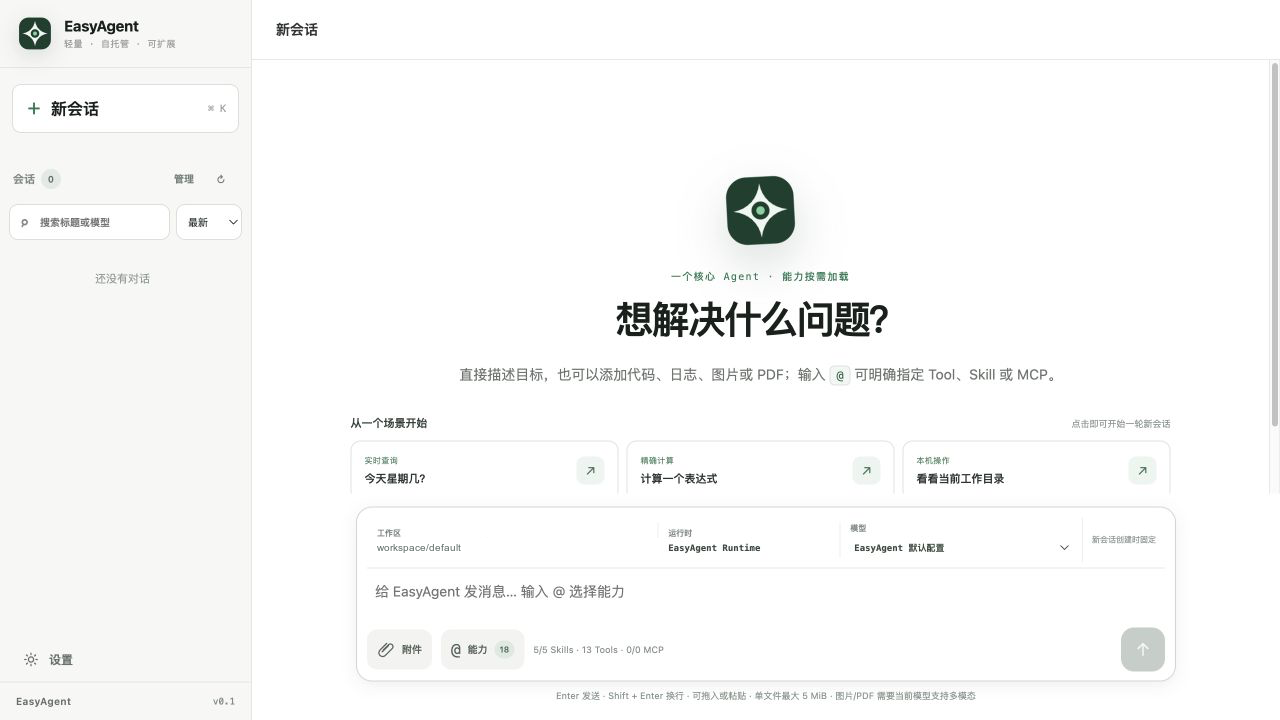
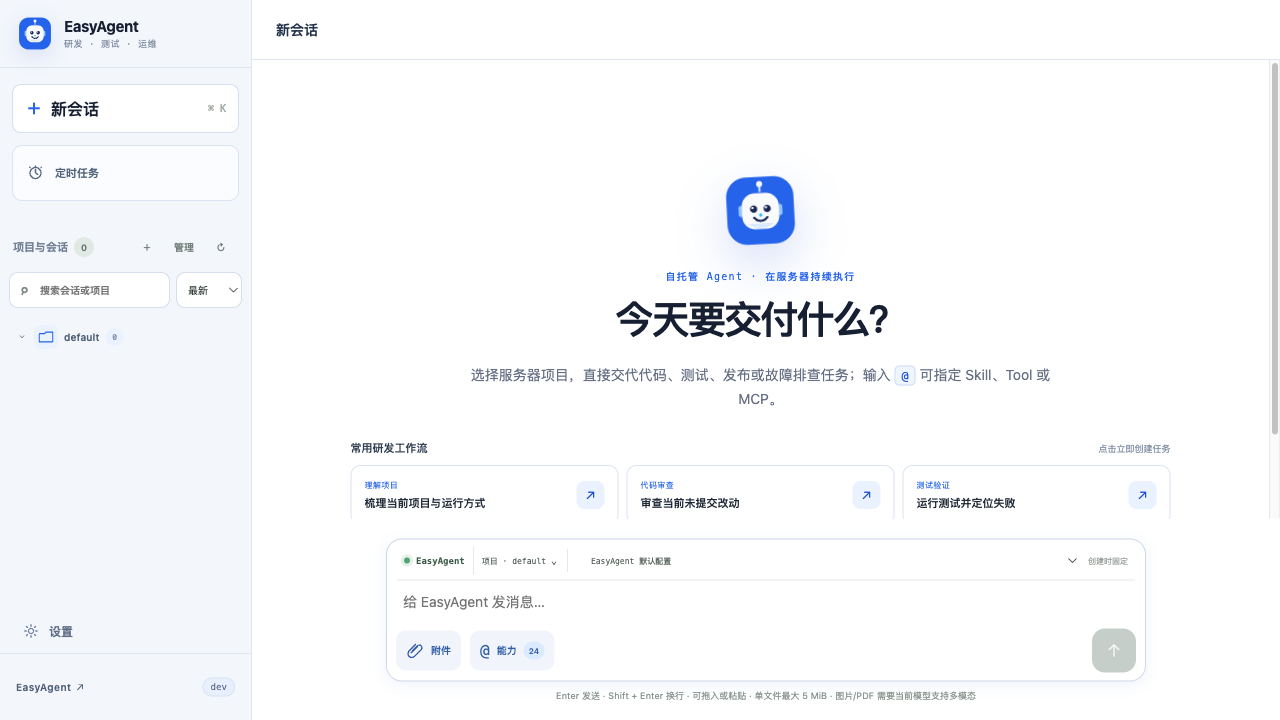
feat: polish settings theme and refresh product screenshots

diff --git a/web/src/product-shell.css b/web/src/product-shell.css
@@ -625,6 +625,13 @@ body { background: #f7f9fd; }
 .login-logo { filter: drop-shadow(0 8px 14px #1d4ed824); }
 .session-project-head .project-icon { color: #2563eb; background: #eaf2ff; }
 .session-project-toggle:hover .project-icon { color: #1d4ed8; background: #dbeafe; }
+.session-project-toggle:hover { background: #eef4ff; }
+.session-project-toggle:focus-visible, .session-project-edit:focus-visible { outline-color: #60a5fa; }
+.session-project-head strong { color: #52627a; }
+.session-project-head small { color: #7c8da5; background: #eaf2ff; }
+.session-project-edit { color: #8090a4; }
+.session-project-edit:hover { color: #315da8; background: #e8f0ff; }
+.session-project-sessions { border-left-color: #d9e5f3; }
 .session-project-sessions .session-type-icon.automation { border-color: #c9dcfa; color: #2563eb; background: #edf4ff; }
 .session-project-sessions .session-type-icon.automation.running { border-color: #b9d5f0; color: #3576a8; background: #edf5fb; }
 .automation-empty-mark { color: #2563eb; background: #eaf2ff; }
@@ -669,3 +676,245 @@ body { background: #f7f9fd; }
 .composer-workspace:focus-visible { outline-color: #60a5fa; }
 .workspace-picker input:focus { border-color: #60a5fa; box-shadow: 0 0 0 3px #dbeafe; }
 .automation-notice { border-color: #c9dcfa; color: #315da8; background: #eff6ff; }
+
+/* Keep channel and workspace controls on the business-blue brand system. */
+.weixin-global.enabled { border-color: #c9dcfa; background: #f5f8ff; }
+.weixin-global strong { color: #315da8; }
+.weixin-refresh { color: #2563eb; }
+.weixin-refresh > span { color: #2563eb; }
+.weixin-notice { border-color: #c9dcfa; color: #315da8; background: #eff6ff; }
+.weixin-section-title > span { color: #315da8; background: #eaf2ff; }
+.weixin-bind-form input:focus, .weixin-verify input:focus, .weixin-account-name input:focus { border-color: #60a5fa; box-shadow: 0 0 0 3px #dbeafe; }
+.weixin-login { border-color: #c9dcfa; background: #f5f8ff; }
+.weixin-qr { color: #2563eb; }
+.weixin-login-copy h4 { color: #1f3565; }
+.weixin-avatar { color: #2563eb; background: #eaf2ff; }
+.weixin-account-name button { color: #315da8; }
+.weixin-account-name button:hover:not(:disabled) { background: #e8f0ff; }
+.weixin-commands code { color: #2563eb; background: #eaf2ff; }
+.workspace-mode-list > button:hover { border-color: #9bb8e8; }
+.workspace-mode-list > button.selected { border-color: #7aa7e8; background: #eff6ff; box-shadow: inset 3px 0 #2563eb; }
+.workspace-mode-list em { color: #315da8; background: #eaf2ff; }
+.automation-schedule-rows select:focus, .automation-schedule-rows input[type="time"]:focus { box-shadow: 0 0 0 3px #dbeafe; }
+
+/* Give the persistent sidebar actions a clear blue interaction hierarchy. */
+.sidebar-settings { color: #5f6f86; }
+.sidebar-settings svg { color: #7183a0; }
+.sidebar-settings:hover { color: #1d4ed8; background: #eef4ff; }
+.sidebar-settings:hover svg { color: #2563eb; }
+.sidebar-settings:focus-visible { outline-color: #60a5fa; box-shadow: none; }
+.sidebar-foot { color: #64748b; background: #f3f6fb; }
+.sidebar-foot a { min-height: 40px; color: #52627a; }
+.sidebar-foot a:hover { color: #1d4ed8; }
+.sidebar-foot small { padding: 3px 7px; border: 1px solid #d5e2f5; border-radius: 999px; color: #607089; background: #e8f0ff; line-height: 1.2; }
+
+/* Settings center: one business-blue interaction system across every section. */
+.settings-hub {
+  --settings-primary: #2563eb;
+  --settings-primary-strong: #1d4ed8;
+  --settings-primary-soft: #eff6ff;
+  --settings-primary-muted: #e8f0ff;
+  --settings-line: #dfe7f2;
+  --settings-line-strong: #c6d7ee;
+  --settings-surface: #f8faff;
+  --settings-surface-raised: #fbfdff;
+  --settings-text: #1e293b;
+  --settings-text-secondary: #52627a;
+  --settings-text-muted: #7b8798;
+  color: var(--settings-text);
+}
+.settings-hub-header { border-bottom-color: var(--settings-line); }
+.settings-hub-header h1 { color: #172033; }
+.settings-hub-header p:last-child { color: #667085; }
+.settings-hub .settings-kicker, .settings-hub .eyebrow { color: var(--settings-primary); }
+.settings-hub-context { border-left-color: var(--settings-line); color: var(--settings-text-secondary); }
+.settings-hub-context small { color: #8794a7; }
+.settings-hub-context strong { color: #30415e; }
+.settings-hub .account-logout { min-height: 40px; border-color: #d5dfed; color: #607089; }
+.settings-hub .account-logout:hover { color: #a04439; border-color: #e6c4bf; background: #fff7f5; }
+
+.settings-side-label { color: #8a97aa; }
+.settings-side-nav button { color: #65748a; transition: color .16s ease, background .16s ease; }
+.settings-side-nav button:hover { color: var(--settings-primary-strong); background: #f1f6ff; }
+.settings-side-nav button.active, .settings-side-nav button.active:hover { color: #1e40af; background: var(--settings-primary-muted); }
+.settings-side-nav button small { color: #8b98aa; }
+.settings-side-nav button.active small { color: #657da5; }
+.settings-nav-index { color: #9aa7b8; }
+.settings-side-nav button.active .settings-nav-index { color: var(--settings-primary); }
+.settings-side-nav button:focus-visible { box-shadow: 0 0 0 2px #93b4ed; }
+.settings-side-note { border-top-color: var(--settings-line); color: #8a97a8; }
+
+.settings-hub-content .runtime-rail-head, .settings-hub-content .runtime-main-head,
+.settings-hub .section-heading, .settings-hub .model-catalog-head,
+.settings-hub .skill-form-actions { border-color: var(--settings-line); }
+.settings-hub-content .runtime-rail-head > div > strong,
+.settings-hub .runtime-main-head h2, .settings-hub .section-heading h2,
+.settings-hub .model-catalog-head h2, .settings-hub .settings-section-heading h2,
+.settings-hub .editor-title h2 { color: var(--settings-text); }
+.settings-hub-content .runtime-rail-head > small,
+.settings-hub-content .runtime-rail-foot, .settings-hub .runtime-main-head p:last-child,
+.settings-hub .section-heading p, .settings-hub .model-catalog-head p:last-child,
+.settings-hub .settings-section-heading p:last-child, .settings-hub .field-help,
+.settings-hub .directory-foot { color: var(--settings-text-muted); }
+.settings-hub-content .runtime-rail-foot { border-top-color: var(--settings-line); }
+.settings-hub .tag, .settings-hub .settings-count, .settings-hub .runtime-chip {
+  color: var(--settings-primary-strong);
+  background: var(--settings-primary-muted);
+}
+.settings-hub .section-block, .settings-hub .model-catalog,
+.settings-hub .split-settings, .settings-hub .account-panel,
+.settings-hub .usage-kpis, .settings-hub .usage-panel,
+.settings-hub .weixin-bind, .settings-hub .weixin-list { border-color: var(--settings-line); }
+.settings-hub .ghost-button { border-color: #d5dfed; color: #334155; background: #fff; }
+.settings-hub .ghost-button:hover:not(:disabled) { border-color: #9bb8e8; color: var(--settings-primary-strong); background: #f5f8ff; }
+.settings-hub .ghost-button:focus-visible, .settings-hub .primary-button:focus-visible,
+.settings-hub .profile-activate:focus-visible, .settings-hub .profile-edit:focus-visible {
+  outline: 2px solid #60a5fa;
+  outline-offset: 2px;
+}
+.settings-hub label { color: var(--settings-text-secondary); }
+.settings-hub input, .settings-hub textarea, .settings-hub select { border-color: #d4dfed; color: #1f2937; background: #fff; }
+.settings-hub input:focus, .settings-hub textarea:focus, .settings-hub select:focus { border-color: #60a5fa; box-shadow: 0 0 0 3px #dbeafe; }
+.settings-hub .switch input:checked + span { background: var(--settings-primary); }
+.settings-hub .switch input:focus-visible + span { box-shadow: 0 0 0 3px #dbeafe, 0 0 0 5px #60a5fa; }
+
+/* Runtime and shared task policy. Health dots intentionally remain semantic green. */
+.settings-hub-content .runtime-nav-item { border-color: var(--settings-line); color: var(--settings-text-secondary); background: #fff; }
+.settings-hub-content .runtime-nav-item:hover { border-color: #aac4e8; color: var(--settings-primary-strong); background: #f5f8ff; }
+.settings-hub-content .runtime-nav-item.selected,
+.settings-hub-content .runtime-nav-item.selected:hover { color: #1e40af; border-color: #8eb3ea; background: var(--settings-primary-soft); }
+.settings-hub-content .runtime-nav-item.selected .runtime-nav-dot { box-shadow: 0 0 0 4px #dbeafe; }
+.settings-hub-content .runtime-nav-item.selected em { color: var(--settings-primary-strong); }
+.settings-hub .runtime-status { border: 1px solid #d2e1f5; background: var(--settings-primary-soft); }
+.settings-hub .runtime-summary { border-color: var(--settings-line); background: var(--settings-surface); }
+.settings-hub .runtime-summary strong { color: #1f3d6b; }
+.settings-hub .runtime-summary span { color: var(--settings-text-muted); }
+.settings-hub .runtime-boundary-note, .settings-hub .capability-note { border-left-color: var(--settings-primary); color: #315da8; background: var(--settings-primary-soft); }
+.settings-hub .runtime-boundary-note strong, .settings-hub .capability-note strong { color: #1e40af; }
+.settings-hub .runtime-boundary-note span { color: #637692; }
+.settings-hub .task-settings-panel .section-heading { border-bottom-color: var(--settings-line); }
+.settings-hub .task-settings-grid { border-top-color: var(--settings-line); border-left-color: var(--settings-line); }
+.settings-hub .task-settings-grid > section { border-right-color: var(--settings-line); border-bottom-color: var(--settings-line); background: var(--settings-surface-raised); }
+.settings-hub .task-setting-heading > span { color: var(--settings-primary); }
+.settings-hub .task-setting-heading strong { color: #30415e; }
+.settings-hub .task-setting-heading small, .settings-hub .task-settings-grid label > small,
+.settings-hub .task-toggle small { color: var(--settings-text-muted); }
+.settings-hub .task-settings-grid label > input[type="number"] { border-color: #d4dfed; color: #1f2937; }
+.settings-hub .task-toggle input { accent-color: var(--settings-primary); }
+.settings-hub .recovery-policy { border-color: var(--settings-line); background: #f5f8ff; }
+.settings-hub .recovery-policy > div + div { border-left-color: var(--settings-line); }
+.settings-hub .recovery-policy strong { color: #30415e; }
+.settings-hub .recovery-policy small { color: #6d7c91; }
+
+/* Model directory and its editor. */
+.settings-hub .model-profile-directory { border-top-color: var(--settings-line); }
+.settings-hub .model-profile-row { border-color: var(--settings-line); background: #fff; }
+.settings-hub .model-profile-row:hover { background: #f6f9ff; }
+.settings-hub .model-profile-row.selected,
+.settings-hub .model-profile-row.selected:hover { border-color: #b7cef0; background: var(--settings-primary-soft); }
+.settings-hub .model-profile-select { color: #30415e; }
+.settings-hub .model-profile-select:hover strong { color: var(--settings-primary-strong); }
+.settings-hub .model-profile-select small { color: var(--settings-text-muted); }
+.settings-hub .profile-runtime-tag { border-left-color: #60a5fa; color: #315da8; background: transparent; }
+.settings-hub .profile-runtime-tag.codex { border-left-color: var(--settings-primary); color: #1e40af; }
+.settings-hub .profile-runtime-tag.draft { border-left-color: #c58b3e; color: #8a672c; }
+.settings-hub .profile-activate, .settings-hub .profile-edit { border-color: #c9d9ef; color: #315da8; background: #fff; }
+.settings-hub .profile-activate:hover:not(:disabled), .settings-hub .profile-edit:hover { border-color: #8eb3ea; color: var(--settings-primary-strong); background: var(--settings-primary-soft); }
+.settings-hub-content .profile-activate.active { color: #315da8; background: var(--settings-primary-muted); }
+.settings-hub .model-drawer-backdrop { background: #0f1f3866; }
+.settings-hub .model-drawer { box-shadow: -24px 0 60px #0f1f3829; }
+.settings-hub .model-drawer-head, .settings-hub .model-drawer-danger { border-color: var(--settings-line); }
+.settings-hub .drawer-close { border-color: #d5dfed; color: #607089; background: #f7f9fc; }
+.settings-hub .drawer-close:hover { color: var(--settings-primary-strong); border-color: #9bb8e8; background: var(--settings-primary-soft); }
+.settings-hub .model-drawer-meta, .settings-hub .codex-config-summary { border-color: #ccdcf2; color: #315da8; background: var(--settings-primary-soft); }
+.settings-hub .model-drawer-meta strong { color: #1f3d6b; }
+.settings-hub .ollama-model-catalog { border-color: #ccdcf2; background: var(--settings-surface); }
+.settings-hub .ollama-model-head strong, .settings-hub .ollama-model-row code { color: #304b73; }
+.settings-hub .ollama-model-head small, .settings-hub .ollama-model-row small,
+.settings-hub .ollama-model-row > span { color: var(--settings-text-muted); }
+.settings-hub .ollama-model-head > span { color: var(--settings-primary-strong); background: var(--settings-primary-muted); }
+.settings-hub .ollama-model-row { border-top-color: var(--settings-line); }
+
+/* Skills and MCP use blue for interaction; success/error feedback stays semantic. */
+.settings-hub .skills-overview > div, .settings-hub .mcp-overview > div { border-color: var(--settings-line); background: var(--settings-surface); }
+.settings-hub .skills-overview strong, .settings-hub .mcp-overview strong { color: #1f3d6b; }
+.settings-hub .skills-overview span, .settings-hub .mcp-overview span { color: var(--settings-text-muted); }
+.settings-hub .settings-list, .settings-hub .settings-list-tools { border-color: var(--settings-line); background: #f5f8fc; }
+.settings-hub .settings-list > button { border-bottom-color: var(--settings-line); }
+.settings-hub .settings-list > button:hover { background: #f0f5ff; }
+.settings-hub .settings-list > button.active { background: var(--settings-primary-soft); box-shadow: inset 3px 0 var(--settings-primary); }
+.settings-hub .settings-list .add-row { color: var(--settings-primary-strong); }
+.settings-hub .settings-list small, .settings-hub .settings-list em { color: var(--settings-text-muted); }
+.settings-hub .settings-search > span { color: #6d7f98; }
+.settings-hub .editor-title span, .settings-hub .skill-toggle-control small { color: var(--settings-text-muted); }
+.settings-hub .skill-toggle-control strong { color: #30415e; }
+.settings-hub .code-editor { color: #dbeafe; background: #0f172a; }
+.settings-hub .tool-table > div, .settings-hub .mcp-grid,
+.settings-hub .mcp-row { border-color: var(--settings-line); }
+.settings-hub .tool-table code, .settings-hub .mcp-row button { color: var(--settings-primary-strong); }
+.settings-hub .tool-table span, .settings-hub .mcp-row-info small,
+.settings-hub .mcp-row > span { color: var(--settings-text-muted); }
+.settings-hub .mcp-row-actions button { border-color: #cbdaf0; background: #fff; }
+.settings-hub .mcp-row button:hover { color: var(--settings-primary-strong); background: var(--settings-primary-soft); }
+.settings-hub .preset-card { border-color: #ccdaee; color: #304b73; background: var(--settings-surface); }
+.settings-hub .preset-card small { color: #66758a; }
+.settings-hub .preset-card em { color: #8793a5; }
+.settings-hub .preset-actions button { border-color: #bfd1eb; color: #315da8; }
+.settings-hub .preset-actions button:hover { border-color: #8eb3ea; background: var(--settings-primary-soft); }
+.settings-hub .preset-actions button:last-child { border-color: var(--settings-primary); color: #fff; background: var(--settings-primary); }
+.settings-hub .preset-actions button:last-child:hover { border-color: var(--settings-primary-strong); background: var(--settings-primary-strong); }
+
+/* Usage is product data, so its chart series follows the brand palette. */
+.settings-hub .usage-toolbar, .settings-hub .usage-period-list,
+.settings-hub .usage-model-list, .settings-hub .usage-period-row,
+.settings-hub .usage-model-row { border-color: var(--settings-line); }
+.settings-hub .usage-period-tabs button { color: #6f7d90; }
+.settings-hub .usage-period-tabs button:hover { color: var(--settings-primary-strong); background: #f3f7ff; }
+.settings-hub .usage-period-tabs button.active { color: #1e40af; border-bottom-color: var(--settings-primary); background: var(--settings-primary-soft); }
+.settings-hub .usage-kpis { background: var(--settings-surface); }
+.settings-hub .usage-kpis > div { border-color: var(--settings-line); }
+.settings-hub .usage-kpis span, .settings-hub .usage-kpis small,
+.settings-hub .usage-panel-head > span, .settings-hub .usage-model-meta,
+.settings-hub .usage-model-numbers span, .settings-hub .usage-footnote { color: var(--settings-text-muted); }
+.settings-hub .usage-kpis strong, .settings-hub .usage-period-value,
+.settings-hub .usage-model-numbers strong { color: #1f4f8f; }
+.settings-hub .usage-period-label strong, .settings-hub .usage-model-title strong { color: #30415e; }
+.settings-hub .usage-period-label small, .settings-hub .usage-model-title small { color: var(--settings-text-muted); }
+.settings-hub .usage-period-track { background: #e8eef7; }
+.settings-hub .usage-period-track span { background: #4f8fe8; }
+.settings-hub .usage-runtime-dot { background: #60a5fa; box-shadow: 0 0 0 3px #dbeafe; }
+.settings-hub .usage-runtime-dot.codex { background: #2563eb; box-shadow: 0 0 0 3px #dbeafe; }
+
+/* Weixin setup surfaces are brand-neutral blue; online and delivery states stay green. */
+.settings-hub .weixin-page { color: var(--settings-text); }
+.settings-hub .weixin-head { border-bottom-color: var(--settings-line); }
+.settings-hub .weixin-head h2, .settings-hub .weixin-section-title h3,
+.settings-hub .weixin-overview strong, .settings-hub .weixin-task-copy > strong { color: var(--settings-text); }
+.settings-hub .weixin-head p:last-child, .settings-hub .weixin-section-title p,
+.settings-hub .weixin-overview span, .settings-hub .weixin-overview small,
+.settings-hub .weixin-task-copy > span, .settings-hub .weixin-task-copy > small { color: var(--settings-text-muted); }
+.settings-hub .weixin-global, .settings-hub .weixin-overview,
+.settings-hub .weixin-account, .settings-hub .weixin-commands { border-color: var(--settings-line); }
+.settings-hub .weixin-global { background: var(--settings-surface-raised); }
+.settings-hub .weixin-global.enabled { border-color: #c9dcfa; background: #f5f8ff; }
+.settings-hub .weixin-overview > div, .settings-hub .weixin-refresh,
+.settings-hub .weixin-account-head, .settings-hub .weixin-account-actions,
+.settings-hub .weixin-commands > div { border-color: var(--settings-line); }
+.settings-hub .weixin-refresh:hover:not(:disabled) { background: var(--settings-primary-soft); }
+.settings-hub .weixin-bind { background: var(--settings-surface); }
+.settings-hub .weixin-account-name input:hover { border-color: var(--settings-line); background: var(--settings-surface); }
+.settings-hub .weixin-task { background: var(--settings-surface); }
+.settings-hub .weixin-task.running, .settings-hub .weixin-task.queued,
+.settings-hub .weixin-task.paused { background: var(--settings-primary-soft); }
+.settings-hub .weixin-project-select { color: var(--settings-text-secondary); }
+.settings-hub .weixin-commands { background: #f6f9ff; }
+.settings-hub .weixin-commands strong { color: #30415e; }
+.settings-hub .weixin-commands span, .settings-hub .weixin-commands small { color: var(--settings-text-muted); }
+
+/* Account security is a compact settings card, not a detached green panel. */
+.settings-hub .account-panel { border-color: var(--settings-line); background: var(--settings-surface-raised); }
+.settings-hub .account-panel h2 { color: var(--settings-text); }
+.settings-hub .account-panel p:last-child { color: var(--settings-text-muted); }
+.settings-hub .password-form { border-color: var(--settings-line); background: #fff; }
+.settings-canvas::-webkit-scrollbar-thumb { background: #b8c7db; background-clip: content-box; }
+.settings-canvas::-webkit-scrollbar-thumb:hover { background: #8ba3c2; background-clip: content-box; }

diff --git a/README.md b/README.md
@@ -88,11 +88,19 @@ curl -fsSL https://chatgpt.com/codex/install.sh | sh
 - 支持排队、暂停、继续、停止和重启恢复；默认并发 4、单轮最长 12 小时，均可在设置中调整。
 - Git 项目可按会话创建 worktree；源仓库有未提交修改时不会自动隔离。Codex 会话还支持 thread 继续、读取和分支。
 
+<p align="center">
+  <img src="docs/images/model-and-tools.png" alt="EasyAgent 运行时与模型设置" width="920" />
+</p>
+
 ## 内置能力
 
 内置 Skills 聚焦项目理解、问题分析、代码审查、API 设计、测试与 E2E、事故 RCA、发布工程、文档维护、Git worktree 和网页研究。GitHub、Context7、Playwright、OpenAI Docs 等 MCP 可在设置页启用，供两个 Runtime 共用。
 
 Skills 和大型工具组按需加载，减少无关上下文。网页研究会先发现候选，再读取原始来源后回答。
+
+<p align="center">
+  <img src="docs/images/skills.png" alt="EasyAgent Skills 能力库" width="920" />
+</p>
 
 ## 微信远程
 
